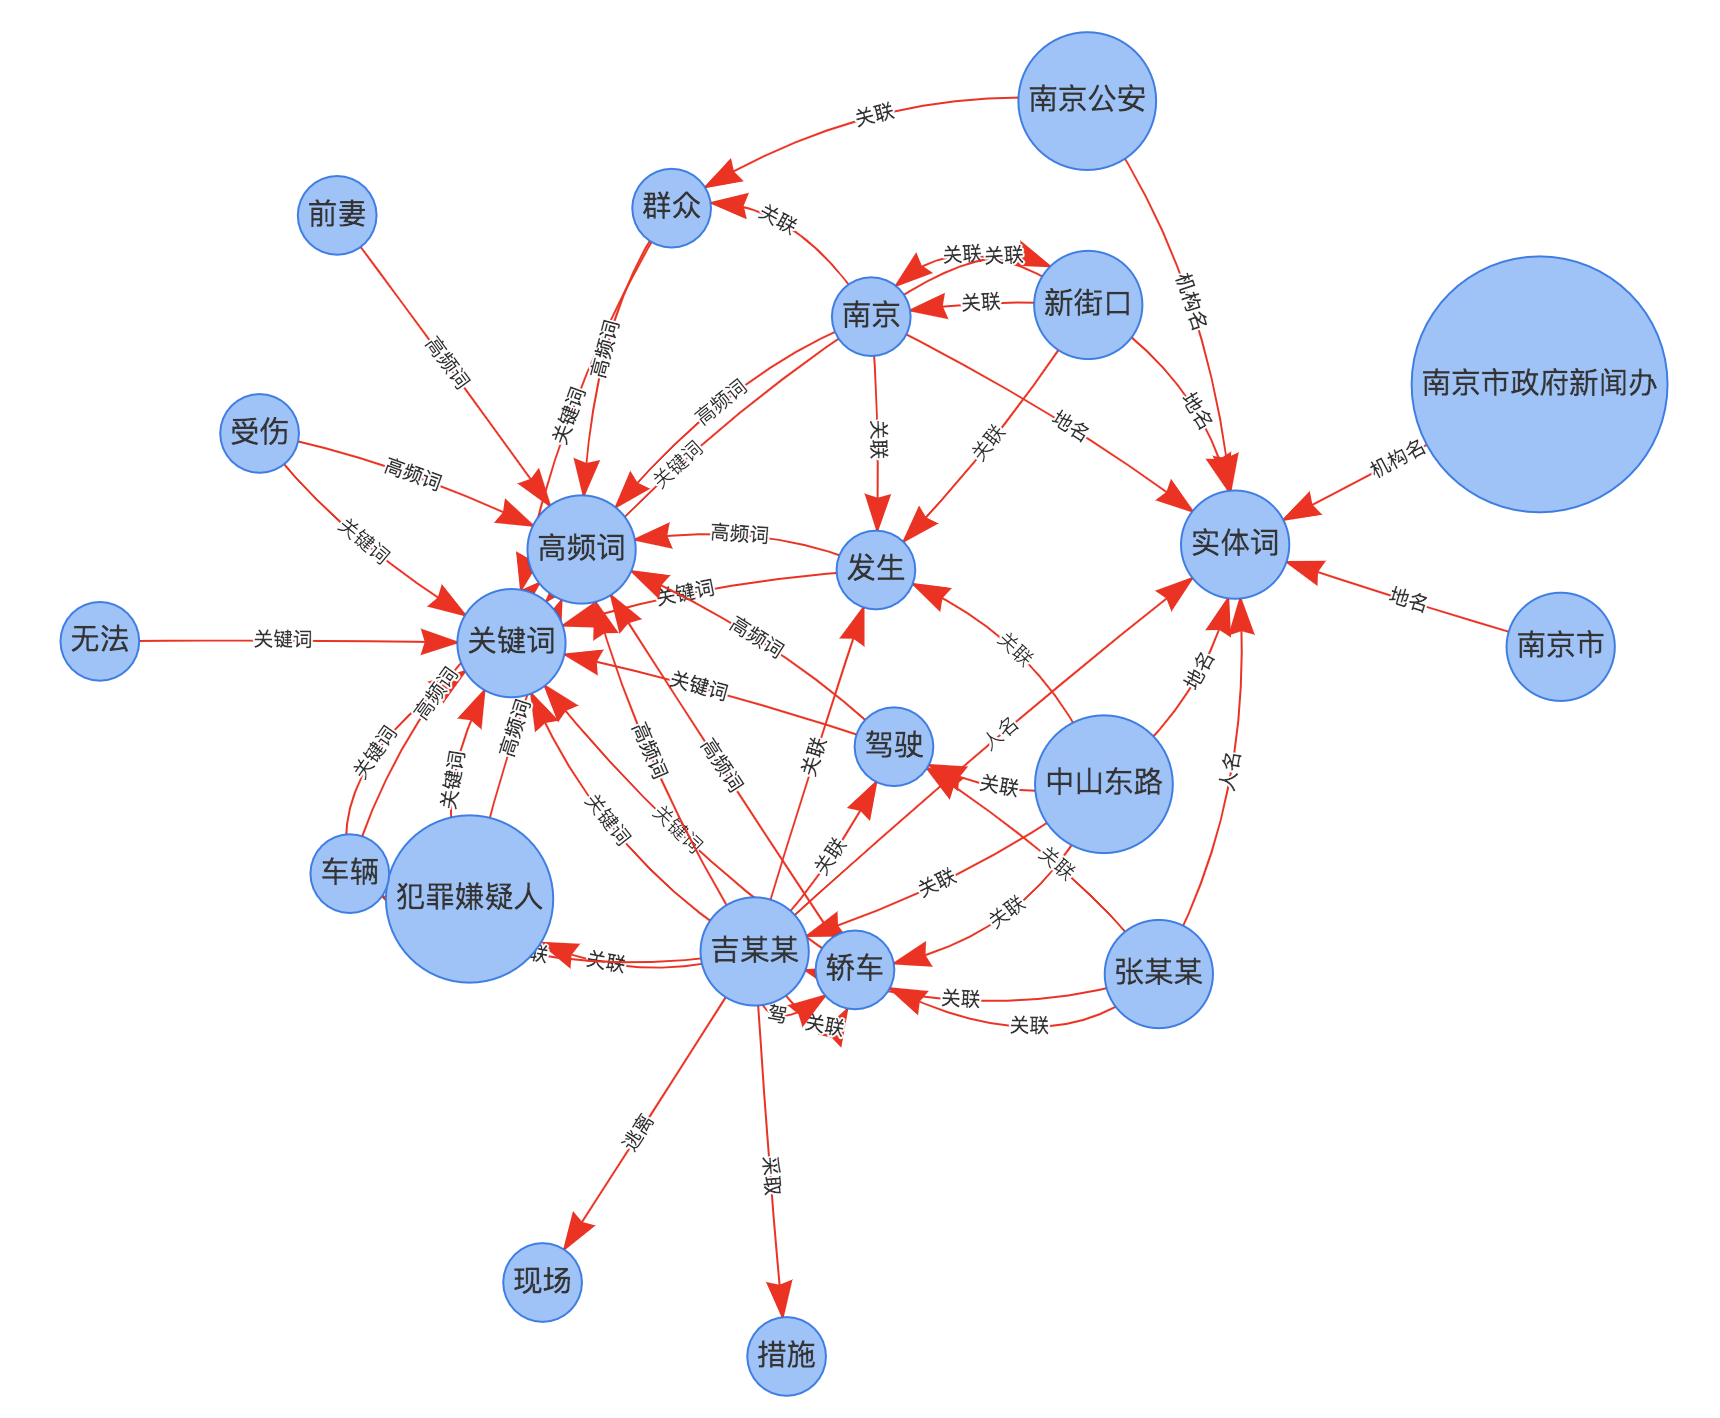
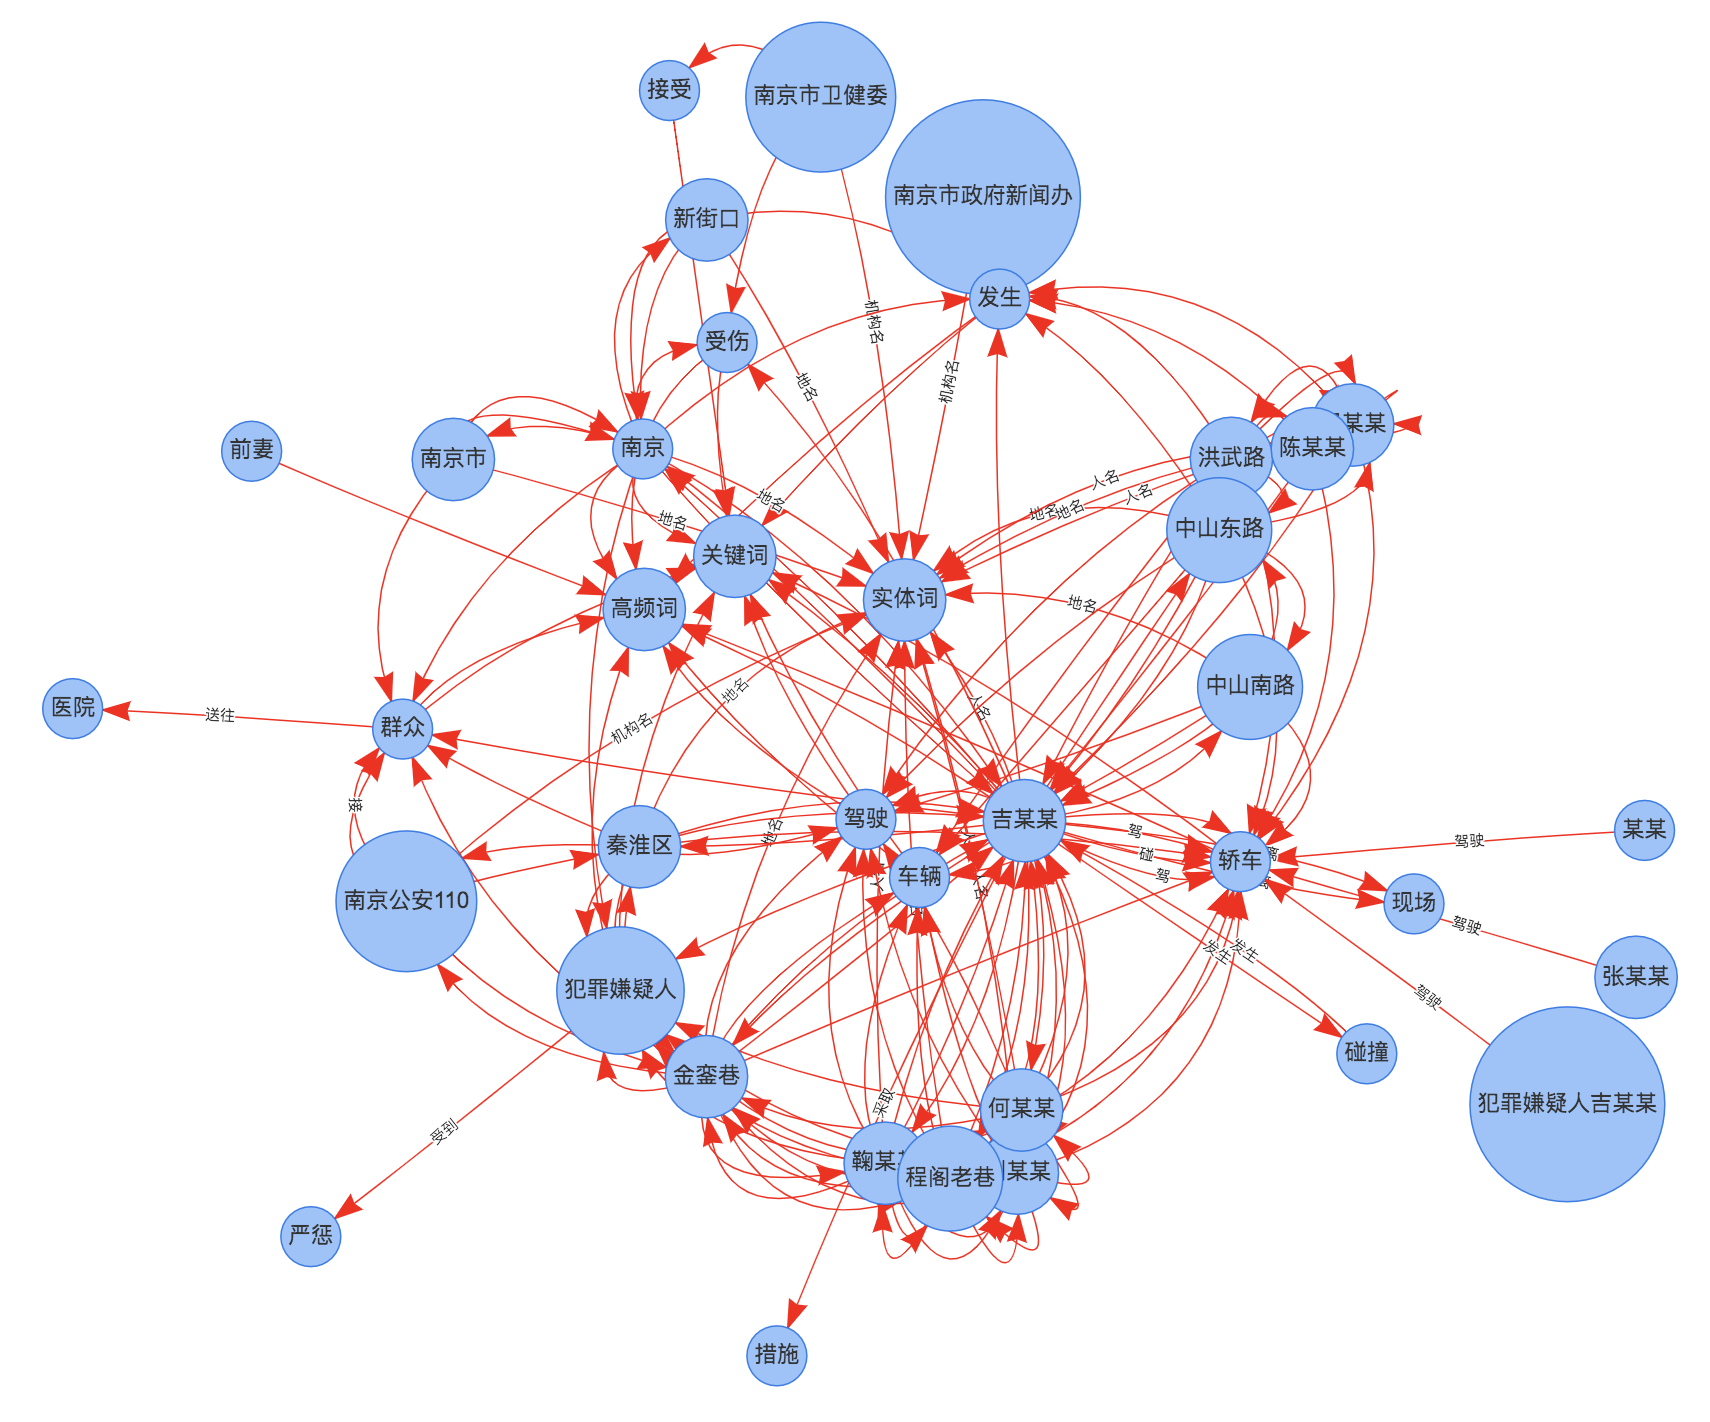
update srl event.

diff --git a/relext/relation_extract.py b/relext/relation_extract.py
@@ -81,7 +81,8 @@ class RelationExtract:
                 combines.append('@'.join([i, j]))
         return combines
 
-    def _search_attr(self, verb, child_dict_list, attr_list=None):
+    @staticmethod
+    def _search_attr(verb, child_dict_list, attr_list=None):
         """
         根据谓语动词找属性词
         :param verb:
@@ -102,7 +103,8 @@ class RelationExtract:
                     objs.append(vob[1])
         return objs
 
-    def _search_obj(self, verb, child_dict_list, obj_list=None):
+    @staticmethod
+    def _search_obj(verb, child_dict_list, obj_list=None):
         """
         根据谓语动词找宾语词
         :param verb:
@@ -163,7 +165,7 @@ class RelationExtract:
         抽取出施事者，谓词，受事者三元组
         :param words:
         :param postags:
-        :param srls:
+        :param srls: 语义角色标注类型，参考  https://github.com/shibing624/relext/blob/main/docs/srl_cpb.md
         "srl": [
                 [["阿婆主", "ARG0", 0, 1], ["来到", "PRED", 1, 2], ["北京立方庭", "ARG1", 2, 4]],
                 [["阿婆主", "ARG0", 0, 1], ["参观", "PRED", 4, 5], ["自然语义科技公司", "ARG1", 5, 9]]
@@ -189,44 +191,36 @@ class RelationExtract:
                 for srl_unit in srl:
                     # srl_unit format: ["阿婆主", "ARG0", 0, 1]
                     word, rel, begin, end = srl_unit[0], srl_unit[1], srl_unit[2], srl_unit[3]
-                    word_size = end - begin
-                    assert word_size > 0
                     if rel in subj_list:
-                        if word_size == 1:
-                            subj = word
-                        else:
-                            word_list = self._filter_ner_words(words_list, srl_unit)
-                            # 重点词在文本靠后
-                            subj = word_list[-1] if len(word_list) > 0 else word
+                        subj = self._get_last_word(words_list, srl_unit)
                     elif rel in verb_list:
                         verb = word
                     elif rel in obj_list:
-                        if word_size == 1:
-                            obj = word
-                        else:
-                            word_list = self._filter_ner_words(words_list, srl_unit)
-                            # 重点词在文本靠后
-                            obj = word_list[-1] if len(word_list) > 0 else word
+                        obj = self._get_last_word(words_list, srl_unit)
                 if subj and verb and obj:
                     ret.append([subj, verb, obj])
         return ret
 
-    def _filter_ner_words(self, words_list, triple):
+    @staticmethod
+    def _get_last_word(words_list, triple):
         """
-        过滤出跟命名实体相关的三元组
-        :param triples:
-        :param ners:
-        :return:
+        取多词组合的长词中的最后词
+        :param words_list:
+        :param triple:
+        :return: word
         """
-        words = []
-        begin, end = triple[2], triple[3]
-        for j in words_list[begin:end]:
-            wd, postag = j
-            if postag in self.ner_dict:
-                words.append(wd)
-        return words
+        wd, begin, end = triple[0], triple[2], triple[3]
+        words = words_list[begin:end]
+        if len(words) == 0:
+            word = ''
+        elif len(words) in [1, 2, 3]:
+            word = wd
+        else:
+            word = words[-1][0]  # 重点词在文本靠后
+        return word
 
-    def _get_entity_relation(self, ners, keywords, subsent_segs):
+    @staticmethod
+    def _get_entity_relation(ners, keywords, subsent_segs):
         """
         通过关键词与实体进行实体关系抽取
         :param ners: 实体
@@ -258,19 +252,22 @@ class RelationExtract:
         # 保存抽取的实体关系，即三元组
         triple_list = []
         for k, v in triple_dict.items():
-            triple_list.extend(v)
+            for i in v:
+                if i not in triple_list:
+                    triple_list.append(i)
         graph = Graph(triple_list)
         graph.show(html_path)
         logger.debug("save to graph done.")
 
     @staticmethod
-    def seg_to_sentence(text):
+    def seg_to_sentence(text, regex=r'[？?！!。；;：:\n\r\t ]'):
         """
-        利用标点符号，将文章进行短句切分处理
+        利用标点符号，将文章进行句子切分处理，保留逗号短句
+        :param regex:
         :param text: article
         :return:
         """
-        return [sentence for sentence in re.split(r'[，,？?！!。；;：:\n\r\t ]', text) if sentence]
+        return [sentence.strip() for sentence in re.split(regex, text) if sentence.strip()]
 
     def extract_triples(self, text, num_keywords=10):
         """
@@ -279,8 +276,6 @@ class RelationExtract:
         :param num_keywords:
         :return:
         """
-        if not text:
-            return
         # 存储实体关系抽取结果，三元组
         triple_dict = {}
         # 对文章进行去噪处理
@@ -316,22 +311,12 @@ class RelationExtract:
                 events += m_events
                 wordpos_sents.append([words, postags])
 
-        # 获取文章事件三元组
-        event_triples = []
-        for t in events:
-            name = t[0]
-            obj = t[2]
-            if len(name) > 1 and len(obj) > 1:
-                event_triples.append(t)
-        if event_triples:
-            triple_dict['event'] = event_triples
-
         # 获取文章关键词
         kw_triples = []
         keywords = [i[0] for i in self.text_keyword.extract_keywords(words_list, num_keywords)]
         for keyword in keywords:
             name = keyword
-            cate = '关键词'
+            cate = ''
             obj = '关键词'
             kw_triples.append([name, cate, obj])
         if kw_triples:
@@ -343,7 +328,7 @@ class RelationExtract:
                                             if i[1][0] in ['n', 'v'] and len(i[0]) > 1]).most_common()][:num_keywords]
         for wd in word_dict:
             name = wd
-            cate = '高频词'
+            cate = ''
             obj = '高频词'
             freq_triples.append([name, cate, obj])
         if freq_triples:
@@ -366,7 +351,7 @@ class RelationExtract:
         co_dict = self._get_coexist(wordpos_sents, list(ner_dict.keys()))
         for c in co_dict.keys():
             name = c.split('@')[0].split('/')[0]
-            cate = '关联'
+            cate = ''
             obj = c.split('@')[1].split('/')[0]
             if len(name) > 1 and len(obj) > 1:
                 coexist_triples.append([name, cate, obj])
@@ -378,7 +363,7 @@ class RelationExtract:
         entity_rels = self._get_entity_relation(ners, keywords, sents_seg)
         for e in set(entity_rels):
             name = e.split('->')[0]
-            cate = '关联'
+            cate = ''
             obj = e.split('->')[1]
             if len(name) > 1 and len(obj) > 1:
                 ner_keyword_triples.append([name, cate, obj])
@@ -398,4 +383,18 @@ class RelationExtract:
                 svo_triples.append(t)
         if svo_triples:
             triple_dict['svo'] = svo_triples
+
+        # 获取文章事件(施事者，谓词，受事者)三元组
+        event_triples = []
+        for t in events:
+            name = t[0]
+            obj = t[2]
+            if len(name) > 1 and len(obj) > 1 and (
+                    name in keywords or obj in keywords or
+                    name in ner_dict or obj in ner_dict or
+                    name in word_dict or obj in word_dict
+            ):
+                event_triples.append(t)
+        if event_triples:
+            triple_dict['event'] = event_triples
         return triple_dict

diff --git a/tests/test_relation_extract.py b/tests/test_relation_extract.py
@@ -94,7 +94,8 @@ class RelTestCase(unittest.TestCase):
             "曹村辖区总面积约10平方公里，其中耕地132公顷。",
             "硫酸钙较为常用，其性质稳定，无嗅无味，微溶于水",
             "蔡竞，男，汉族，四川射洪人，西南财经大学经济学院毕业，经济学博士。",
-            " ",
+            "中国的首都北京",
+            "中国的首都为北京",
         ]
         outs = []
         for sent in sents:
@@ -102,7 +103,46 @@ class RelTestCase(unittest.TestCase):
             print(words, postags, srl, dep)
             m_triple = m._get_event_by_srl(words, postags, srl)
             print(m_triple)
+            dep_triple = m._get_svo_by_dep(words, postags, dep)
+            print(dep_triple)
             outs.append(m_triple)
+        self.assertEqual(outs[0], [])
+        self.assertEqual([['中国的首都', '为', '北京']], outs[4])
+
+    def test_deal_with_long_sent(self):
+        sents = [
+            "南京胖哥曾是铅球运动员",
+            "因白色标致牌轿车安全气囊弹开已无法行驶，吉某某即驾现场碰擦的黑色别克牌轿车沿中山东路往东快速逃窜，在洪武路和中山东路路口（第三现场）与多辆汽车发生碰撞，并将两名路人周某某（女，27岁，本市人）、陈某某（女，25岁，本市人）撞伤。",
+            "案件发生后，许多热心市民向警方报警并现场协助阻止犯罪，警方对热心群众的见义勇为行为表示敬佩和衷心感谢，南京的平安离不开广大人民群众的共同呵护。",
+            "今后，南京市公安机关将按照市委、市政府的部署，加强对各类风险隐患的排查整治，始终保持对违法犯罪行为严打高压态势，不断深化平安南京建设，全力保障人民群众生命财产安全。",
+            "据央视报道披露的细节，5月29日21时许，犯罪嫌疑人吉某某驾驶租来的白色轿车，在秦淮区金銮巷将其前妻撞倒在地，现场热心市民阻拦无果后，吉某某再次碾压该女子后逃离现场。",
+            "中国国家主席习近平访问韩国，并在首尔大学发表演讲。",
+        ]
+        outs = []
+        for sent in sents:
+            words, postags, srl, dep = m.parser.tok_parser(sent)
+            print(words, postags, srl, dep)
+            m_triple = m._get_event_by_srl(words, postags, srl)
+            print(m_triple)
+            dep_triple = m._get_svo_by_dep(words, postags, dep)
+            print(dep_triple)
+            outs.append(m_triple)
+            chunks = sent.split('，')
+            print("short:")
+            for chunk in chunks:
+                words, postags, srl, dep = m.parser.tok_parser(chunk)
+                m_triple = m._get_event_by_srl(words, postags, srl)
+                print(m_triple)
+                dep_triple = m._get_svo_by_dep(words, postags, dep)
+                print(dep_triple)
+        self.assertEqual(outs[0], [['南京胖哥', '是', '铅球运动员']])
+        self.assertEqual(outs[1], [['吉某某', '驾', '轿车'], ['碰撞', '发生', '汽车']])
+        self.assertEqual(outs[2], [['许多热心市民', '报警', '向警方'], ['警方', '表示', '感谢'], ['南京的平安', '离', '呵护']])
+        self.assertEqual(outs[3], [['南京市公安机关', '加强', '整治'], ['南京市公安机关', '整治', '隐患'], ['南京市公安机关', '保持', '态势'],
+                                   ['南京市公安机关', '深化', '平安南京建设'], ['南京市公安机关', '保障', '安全']])
+        self.assertEqual(outs[4], [['央视报道', '披露', '细节'], ['犯罪嫌疑人吉某某', '驾驶', '轿车'], ['犯罪嫌疑人吉某某', '撞倒', '其前妻'],
+                                   ['吉某某', '逃离', '现场']])
+        self.assertEqual(outs[5], [['中国国家主席习近平', '访问', '韩国'], ['中国国家主席习近平', '发表', '演讲']])
 
 
 if __name__ == '__main__':

diff --git a/tests/test_base.py b/tests/test_base.py
@@ -34,6 +34,15 @@ class BaseTestCase(unittest.TestCase):
         print(t)
         self.assertEqual(2, len(t))
 
+    def test_empty_extract(self):
+        """测试empty"""
+        a = [' ', '', '    ']
+        for i in a:
+            t = m.extract_triples(i)
+            print('len triple_dict,', len(t))
+            print(t)
+            self.assertEqual(0, len(t))
+
 
 if __name__ == '__main__':
     unittest.main()

diff --git a/examples/article_triples_demo.py b/examples/article_triples_demo.py
@@ -57,6 +57,6 @@ article3 = """
 
 if __name__ == '__main__':
     m = RelationExtract()
-    triples = m.extract_triples(article2)
+    triples = m.extract_triples(article3)
     print(triples)
     m.show_triples(triples)

diff --git a/README.md b/README.md
@@ -38,13 +38,17 @@ RelExt: A Tool for Relation Extraction from Text.
 
 - 结构化文本：映射规则即可转化为三元组，相对简单，业务依赖强。此处不展开讨论。
 - 非结构化文本：关系抽取包括两个子任务，实体识别，实体关系分类。三元组抽取模型分为以下两类，
-	1. pipeline模型：先基于序列标注模型识别文本的实体，再用分类器识别实体间的关系。优点：各模型单独训练，需要训练样本少，适合冷启动；缺点：模型误差传递。
-	2. 联合（joint）模型：实体识别模型和实体关系分类模型整合到一个模型，共享底层特征、二者损失值联合训练。优点：误差传递小，模型推理快；缺点：需要大量训练样本。
+	1. pipeline模型：先基于序列标注模型识别文本的实体，再用分类器识别实体间的关系。优点：各模型单独训练，模型准确率高，需要训练样本少，
+	适合冷启动；缺点：误差传递，实体识别错误会传递到关系抽取过程中，模型分开训练未充分利用实体信息。
+	2. 联合（joint）模型：实体识别模型和实体关系分类模型整合到一个模型，共享底层特征、二者损失值联合训练。优点：误差传递小，模型推理快；
+	缺点：需要大量训练样本，模型复杂，当前英文公共数据集准确率64%左右。
 
-### 规则方法
+### 语言学方法
 
-- 基于HanLP的dep句法依存分析，抽取主谓宾三元组
+依据语言学的句法依存分析，语义角色分析，实体和核心词分析，抽取文本的实体关系，得到实体关系三元组。
+
 - 基于HanLP的srl语义角色标注分析，抽取句子中的（核心）谓词，施事者，受事者，确定为三元组
+- 基于HanLP的dep句法依存分析，抽取主谓宾三元组
 - 基于HanLP的ner实体识别，抽取文章实体词
 - 基于TextRank图模型抽取文章核心关键词
 - 基于文章TF词频抽取高频词
@@ -69,7 +73,7 @@ RelExt: A Tool for Relation Extraction from Text.
 
 # Feature
 
-### 规则方法
+### 语言学方法
 
 #### 依存句法的三元组抽取
 
@@ -90,16 +94,16 @@ RelExt: A Tool for Relation Extraction from Text.
 
 一般事先给定schema，在指定的subject、predicate、object范围内识别句子的三元组。
 
-1. 对文本的所有实体词抽取出来，然后确定句子中存在哪些实体关系，基于Bert多分类模型识别命中的关系概率（各关系互不冲突，使用sigmoid）。
+1. 对文本的所有实体词抽取出来，然后确定句子中存在哪些实体关系，基于Bert多分类模型识别命中的关系概率（各关系互不冲突，使用sigmoid）；
 2. 关系元素抽取，枚举第一步预测的每个属性，从句子中标注subject和object，基于Bert的CRF模型输出BIO序列标注预测结果。
 
 ### Joint方法
 
 #### Seq2Seq模型
 
-基于大规模标注样本[Baidu Information Extraction](#Baidu Information Extraction)SAOKE数据集，训练Seq2Seq的端到端模型[Logician](https://arxiv.org/abs/1904.12535v1)。
-
-其在开放域信息抽取，包括动词介词，名词性短语，描述性短语和上下位关系抽取，paper效果F1：0.431。
+1. 样本：人工标注样本[Baidu Information Extraction](#Baidu Information Extraction)SAOKE数据集，样本量4.6万，人工评估准确率89.5%，召回率92.2%，
+2. 模型：训练Seq2Seq的端到端模型[Logician](https://arxiv.org/abs/1904.12535v1),
+3. 效果：评估训练的Logician模型，在开放域信息抽取，包括动词介词，名词性短语，描述性短语和上下位关系抽取，paper效果F1：0.431。
 
 # Install
 
@@ -144,6 +148,7 @@ output:
 
 ```
 {
+'event': [['咸阳市公安局', '捣毁', '一传销窝点'], ['韩立明', '抓住', '姚丽丽'], ['韩立明', '立下', '二等功']],
 'svo': [['咸阳市公安局', '捣毁', '窝点'], ['韩立明', '抓住', '姚丽丽']],
 'keyword': [['传销', '关键词', '关键词'], ['窝点', '关键词', '关键词'], ['韩立明', '关键词', '关键词'], ['捣毁', '关键词', '关键词'], ['抓住', '关键词', '关键词'], ['主犯', '关键词', '关键词'], ['民警', '关键词', '关键词'], ['查处', '关键词', '关键词'], ['出动', '关键词', '关键词'], ['全员', '关键词', '关键词']],
 'freq': [['咸阳市公安局', '高频词', '高频词'], ['解放路', '高频词', '高频词'], ['街角', '高频词', '高频词'], ['捣毁', '高频词', '高频词'], ['传销', '高频词', '高频词'], ['窝点', '高频词', '高频词'], ['韩立明', '高频词', '高频词'], ['抓住', '高频词', '高频词'], ['主犯', '高频词', '高频词'], ['姚丽丽', '高频词', '高频词']],
@@ -154,6 +159,7 @@ output:
 ```
 
 PS:
+- event: 施事者，谓语主词，受事者三元组
 - svo: 主谓宾三元组
 - keyword: 关键词
 - freq: 高频词
